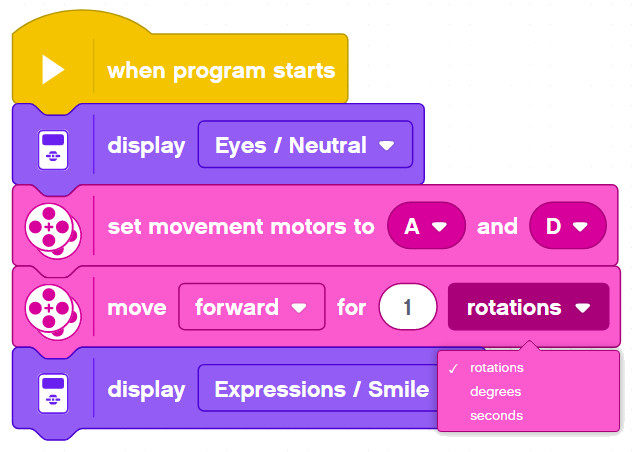
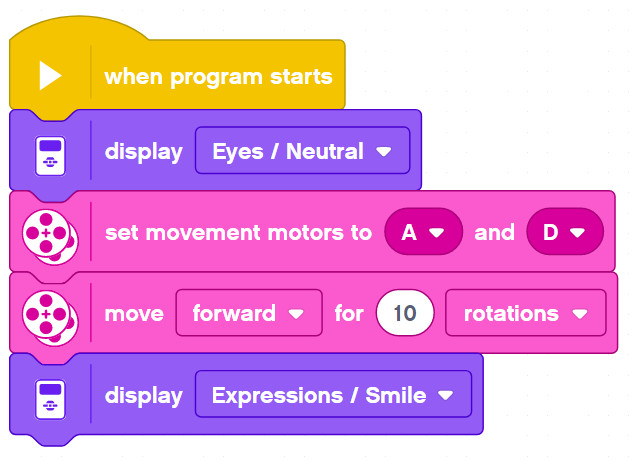
Fix adv section in movement blocks

Changed region(s): [[0.0, 0.0, 0.9858, 0.9912], [0.0597, 0.1239, 0.1195, 0.1858]]

diff --git a/courses/15 Robotics with EV3/20 Basic Movements/20 Movement Blocks.md b/courses/15 Robotics with EV3/20 Basic Movements/20 Movement Blocks.md
@@ -81,8 +81,12 @@ Important: Try to make the robot bump into a wall using for **Rotations** vs. fo
 
 - For Seconds: no matter what, the motors will shut off and the program will continue to the next line 
 
-You can test this with a simple program as follows:
+You can test this with 2 simple and similar programs as follows:
 
 ![](images/rotationsvsseconds.jpg)
 
-In the case of bumping the wall and not being able to rotate as many times as specified, the EV3 should not show the end image.
+In this case when bumping the wall, the motor shafts would not be able to rotate as many times as specified, and the EV3 should not show the end image (only eyes).
+
+![](images/rotationsvsseconds2.jpg)
+
+No matter what the motors and the wheels are doing, this should show a smile after 10 seconds had elapsed.
